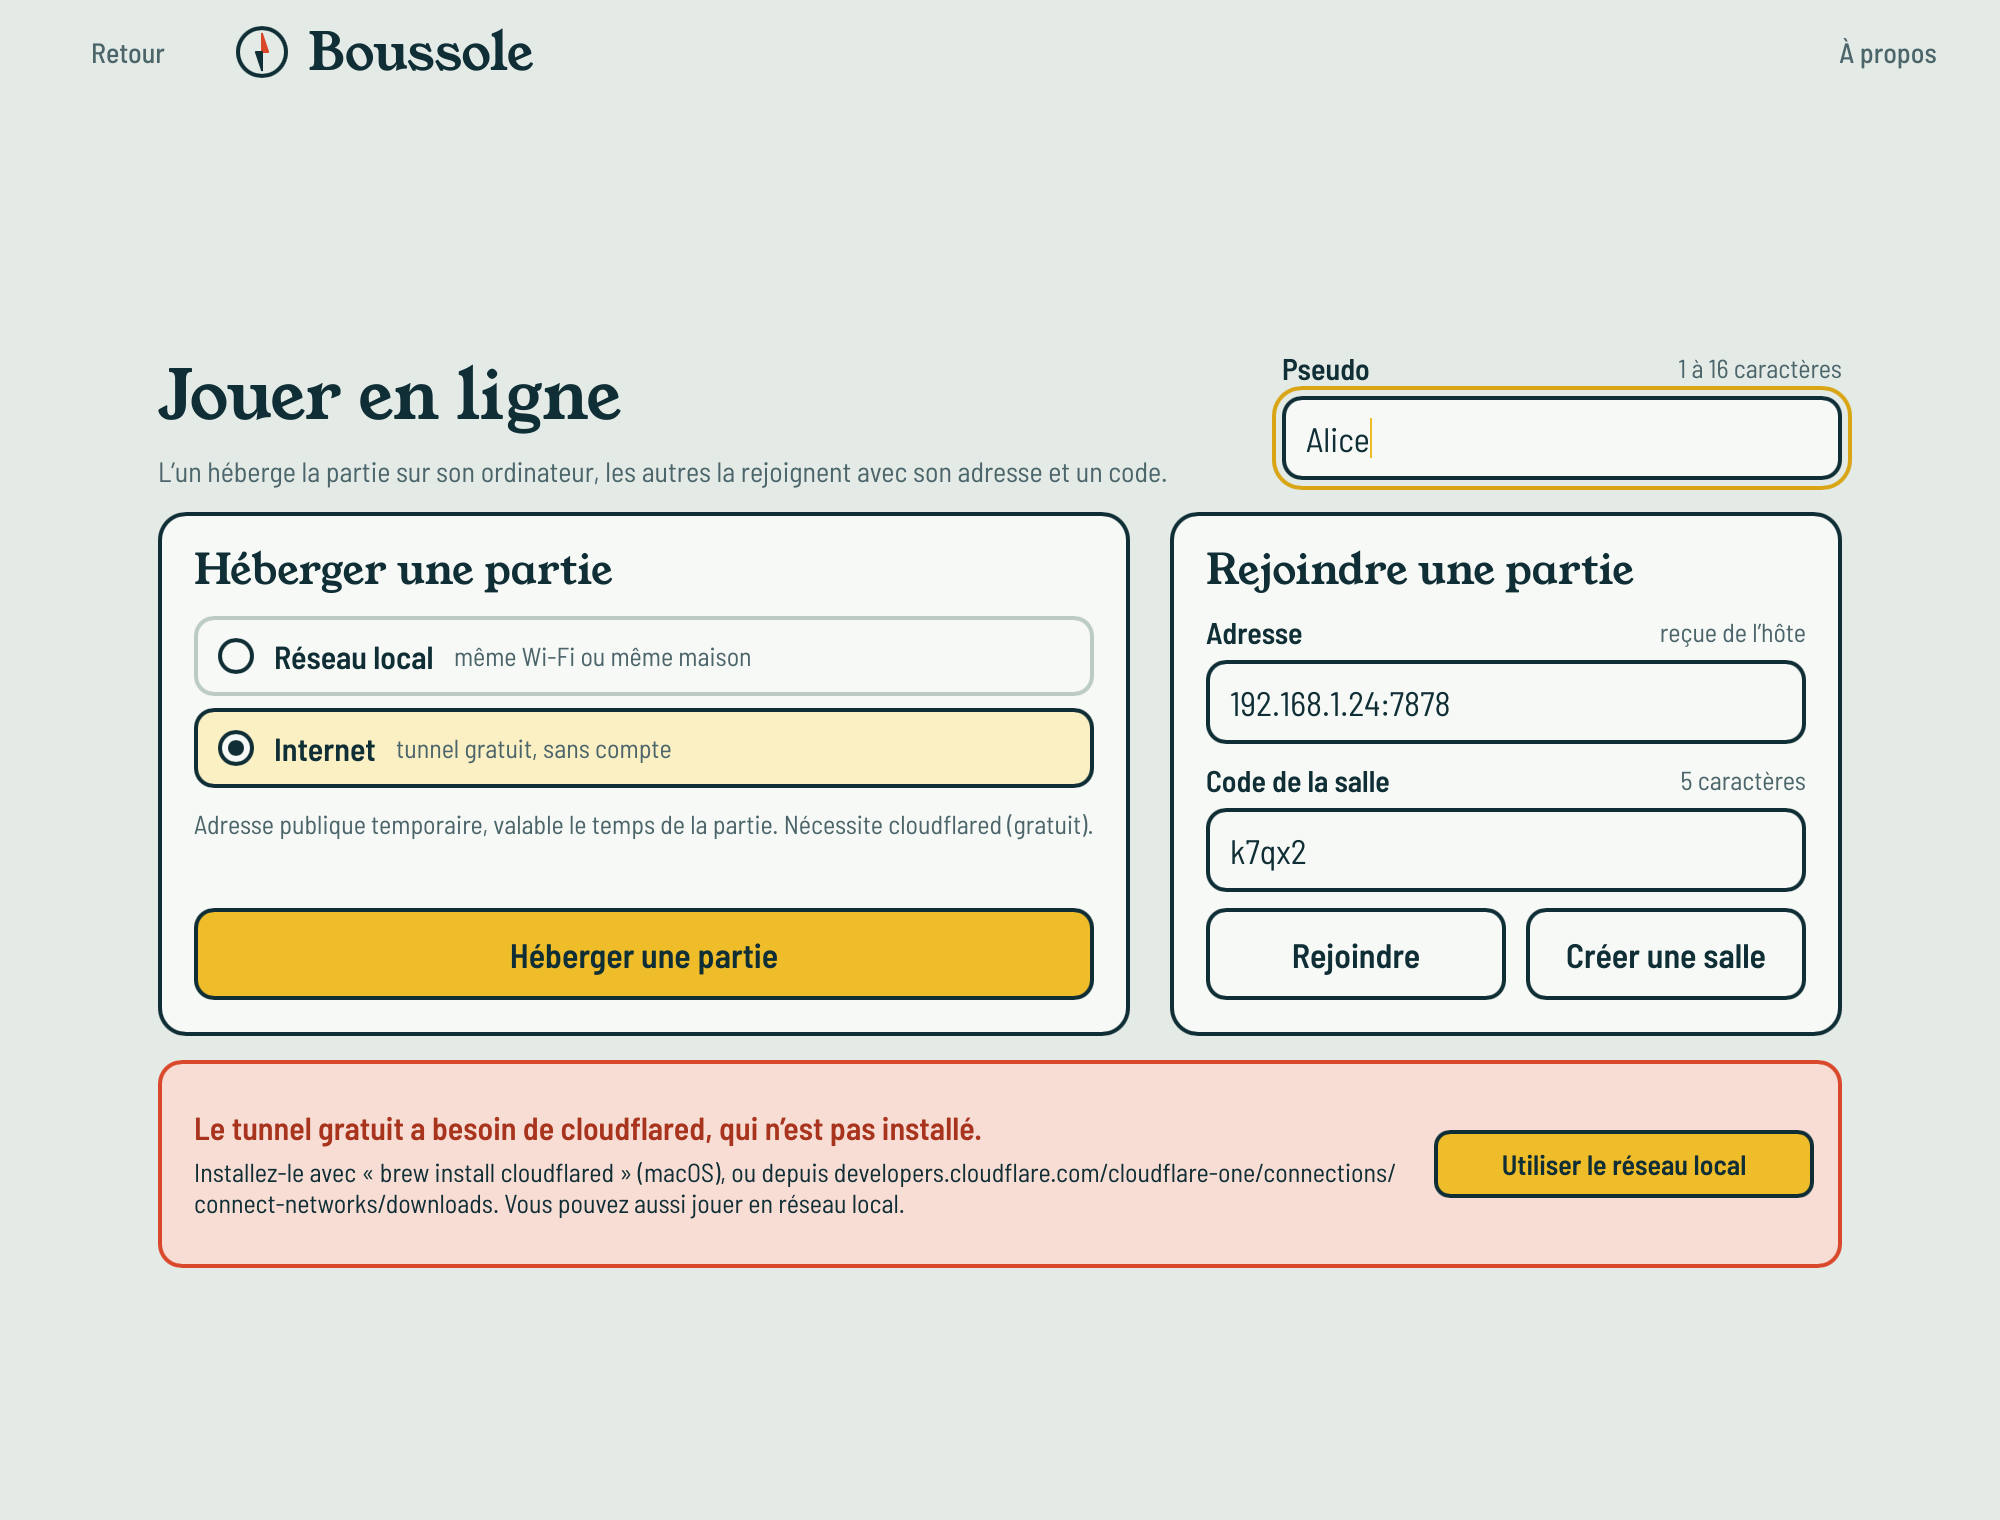
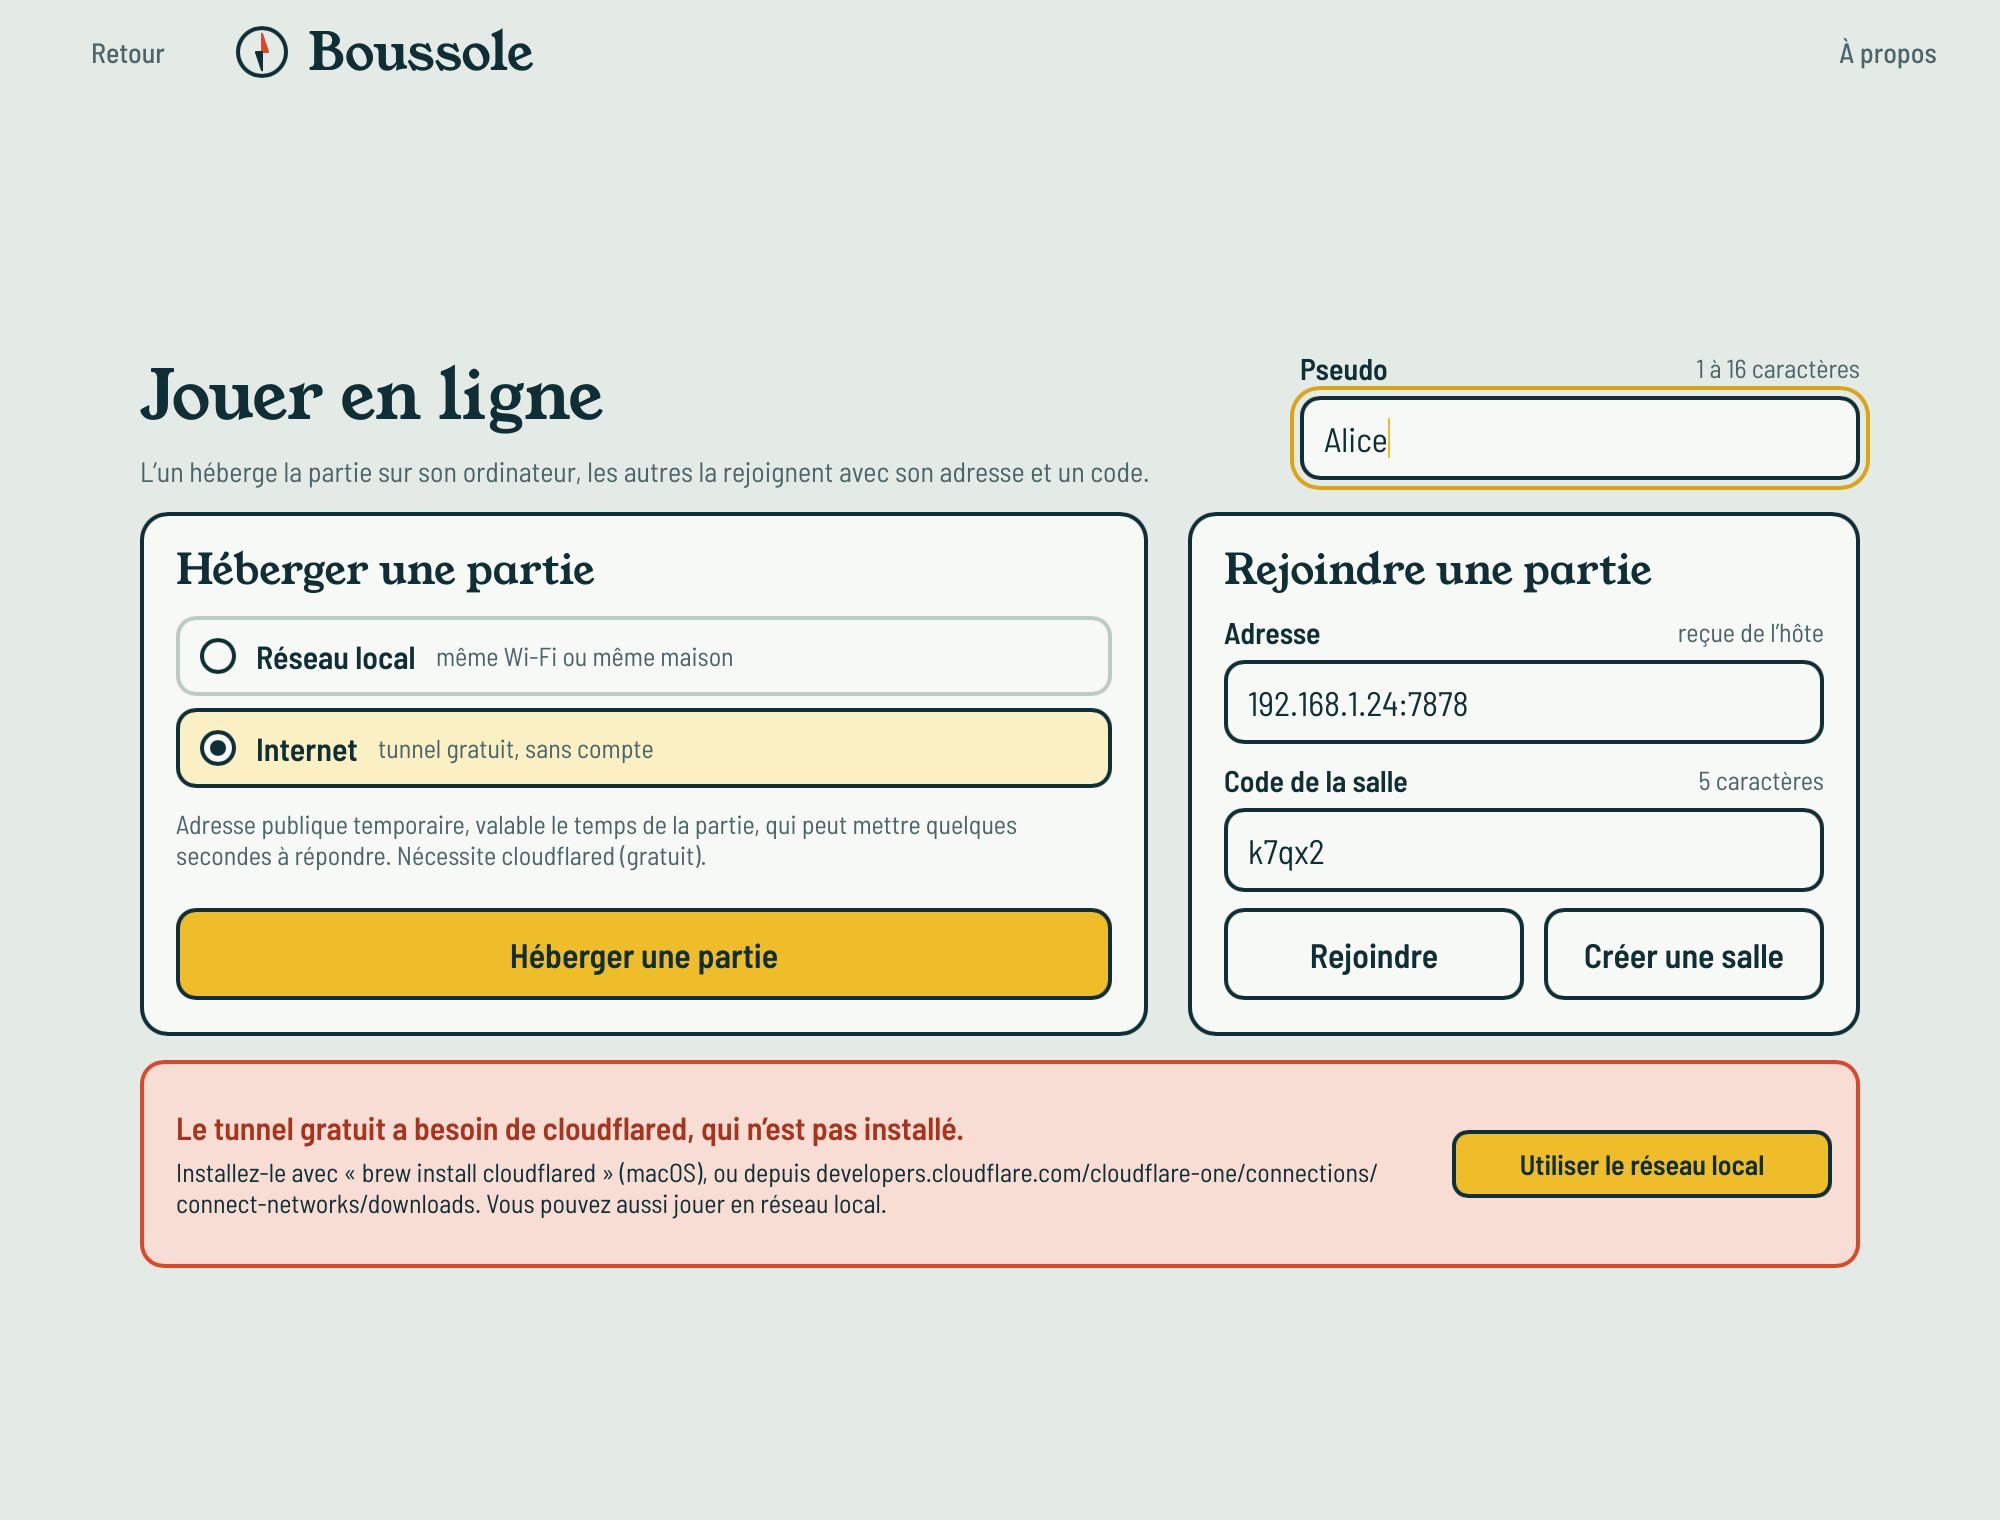
fix(client): a vanished host app is given up on at once; own-server and tunnel wording
04's review: a host app that exits right after shutdown() can lose the 1001 goodbye, so guests
may see a bare EOF. Treating every EOF as "game closed" would cost a Wi-Fi blip the whole room,
so the client keeps its 60 s of retries but gives up as soon as a reconnect attempt is
*refused* (nothing listens on the port any more: a network blip never does that): the player
goes back to the menu with "L’hôte a fermé la partie." instead of waiting a minute. A first
connection to a closed port is still plain "Serveur injoignable".

- When it is the host's own embedded server that stopped, the host is told "Le serveur de la
  partie s’est arrêté." and the host and tunnel handles are stopped.
- The Internet choice says the address may take a few seconds to answer (the tunnel URL is
  printed before it is reachable); the menu still fits 800×600 in its tallest state (test).
- tests first: net (refused port, first connection), flow (guest side, host side, layout).

diff --git a/src/net/client.rs b/src/net/client.rs
@@ -148,6 +148,23 @@ type Sink = Arc<dyn Fn(NetEvent) + Send + Sync>;
 type Socket =
     tokio_tungstenite::WebSocketStream<tokio_tungstenite::MaybeTlsStream<tokio::net::TcpStream>>;
 
+/// Why [`open`] failed. `refused` tells a port with nobody listening (the TCP connection was
+/// refused) from every other failure: while reconnecting, a refusal means the server process is
+/// gone and the game with it, whereas a network blip never refuses.
+struct OpenError {
+    error: NetError,
+    refused: bool,
+}
+
+impl From<NetError> for OpenError {
+    fn from(error: NetError) -> Self {
+        Self {
+            error,
+            refused: false,
+        }
+    }
+}
+
 /// Why a connected session ended.
 enum Ended {
     /// The player closed it (or dropped the handle).
@@ -169,8 +186,8 @@ async fn run(config: NetConfig, mut commands: mpsc::UnboundedReceiver<Command>, 
             sink(NetEvent::Msg(welcome));
             (socket, token)
         }
-        Err(error) => {
-            sink(NetEvent::Failed(error));
+        Err(failure) => {
+            sink(NetEvent::Failed(failure.error));
             return;
         }
     };
@@ -212,9 +229,18 @@ async fn run(config: NetConfig, mut commands: mpsc::UnboundedReceiver<Command>, 
                     sink(NetEvent::Msg(welcome));
                     break socket;
                 }
+                // Nobody listens any more: the server process is gone (a host app that quit
+                // without its 1001 reaching us), and the game cannot come back.
+                Err(OpenError { refused: true, .. }) => {
+                    sink(NetEvent::Failed(NetError::ServerClosed));
+                    return;
+                }
                 // The server was upgraded under us, refuses us, or said it is going away:
                 // retrying cannot help. (A full server, 503, may have room later: keep trying.)
-                Err(error @ (NetError::Rejected(_) | NetError::ServerClosed)) => {
+                Err(OpenError {
+                    error: error @ (NetError::Rejected(_) | NetError::ServerClosed),
+                    ..
+                }) => {
                     sink(NetEvent::Failed(error));
                     return;
                 }
@@ -252,7 +278,7 @@ fn install_tls_provider() {
 async fn open(
     config: &NetConfig,
     resume_token: Option<&str>,
-) -> Result<(Socket, ServerMsg, String), NetError> {
+) -> Result<(Socket, ServerMsg, String), OpenError> {
     install_tls_provider();
     let attempt = async {
         let ws_config = WebSocketConfig::default()
@@ -267,16 +293,24 @@ async fn open(
         .map_err(|error| match error {
             // Over the connection cap: the server answers before the WebSocket upgrade.
             tokio_tungstenite::tungstenite::Error::Http(response) if response.status() == 503 => {
-                NetError::ServerFull
+                OpenError::from(NetError::ServerFull)
             }
-            other => NetError::Unreachable(other.to_string()),
+            tokio_tungstenite::tungstenite::Error::Io(io)
+                if io.kind() == std::io::ErrorKind::ConnectionRefused =>
+            {
+                OpenError {
+                    error: NetError::Unreachable(io.to_string()),
+                    refused: true,
+                }
+            }
+            other => OpenError::from(NetError::Unreachable(other.to_string())),
         })?;
 
         let hello = ClientMsg::hello(config.nickname.clone(), resume_token.map(str::to_owned));
         socket
             .send(Message::text(encode_client(&hello)))
             .await
-            .map_err(|error| NetError::Unreachable(error.to_string()))?;
+            .map_err(|error| OpenError::from(NetError::Unreachable(error.to_string())))?;
 
         loop {
             match socket.next().await {
@@ -288,24 +322,28 @@ async fn open(
                         let token = resume_token.clone();
                         return Ok((socket, welcome, token));
                     }
-                    Ok(ServerMsg::Error { code, .. }) => return Err(NetError::Rejected(code)),
+                    Ok(ServerMsg::Error { code, .. }) => {
+                        return Err(NetError::Rejected(code).into());
+                    }
                     Ok(ServerMsg::Pong) => {}
-                    Ok(_) | Err(_) => return Err(NetError::Protocol),
+                    Ok(_) | Err(_) => return Err(NetError::Protocol.into()),
                 },
                 Some(Ok(Message::Close(frame))) if is_going_away(frame.as_ref()) => {
-                    return Err(NetError::ServerClosed);
+                    return Err(NetError::ServerClosed.into());
                 }
                 Some(Ok(Message::Close(_))) | None => {
-                    return Err(NetError::Unreachable("connexion fermée".into()));
+                    return Err(NetError::Unreachable("connexion fermée".into()).into());
                 }
                 Some(Ok(_)) => {} // ping / pong / binary: not a handshake answer
-                Some(Err(error)) => return Err(NetError::Unreachable(error.to_string())),
+                Some(Err(error)) => {
+                    return Err(NetError::Unreachable(error.to_string()).into());
+                }
             }
         }
     };
     timeout(config.connect_timeout, attempt)
         .await
-        .map_err(|_| NetError::Unreachable("délai dépassé".into()))?
+        .map_err(|_| OpenError::from(NetError::Unreachable("délai dépassé".into())))?
 }
 
 /// Drive one connected socket until the player closes it or it drops.

diff --git a/tests/net.rs b/tests/net.rs
@@ -357,7 +357,10 @@ fn it_gives_up_when_the_reconnect_window_is_over() {
 fn a_server_restart_on_the_same_port_gives_an_unresumed_welcome() {
     let first = MockServer::start();
     let port = first.port;
-    let client = connect(fast(&first.url));
+    let mut config = fast(&first.url);
+    // the restart must be up before the first retry: a port that refuses ends the game
+    config.backoff_initial = Duration::from_millis(400);
+    let client = connect(config);
     welcome_of(client.next());
     drop(first);
     // restart (fresh token table) on the same port; give the OS a moment to release it
@@ -407,6 +410,50 @@ fn a_server_shutdown_close_1001_means_the_host_closed_the_game_and_is_not_retrie
         NetError::ServerClosed.to_string(),
         "L’hôte a fermé la partie."
     );
+}
+
+#[test]
+fn a_host_app_that_exited_without_a_goodbye_is_given_up_on_as_soon_as_its_port_refuses() {
+    // The host process can exit right after `shutdown()` before the 1001 reaches the guests: they
+    // see a bare EOF. A network blip never makes a port *refuse* connections, a gone host does,
+    // and then no amount of retrying brings the game back.
+    let server = MockServer::start();
+    let mut config = fast(&server.url);
+    config.reconnect_window = Duration::from_secs(30); // far longer than this test waits
+    let client = connect(config);
+    welcome_of(client.next());
+    drop(server); // the listener goes away; the connection ends in a bare EOF
+    assert!(matches!(
+        client.next(),
+        NetEvent::Reconnecting { attempt: 1 }
+    ));
+    let started = std::time::Instant::now();
+    assert_eq!(
+        client.next_skipping_reconnecting(),
+        NetEvent::Failed(NetError::ServerClosed)
+    );
+    assert!(
+        started.elapsed() < Duration::from_secs(3),
+        "gave up at once, not after the window"
+    );
+}
+
+#[test]
+fn a_first_connection_to_a_closed_port_is_still_just_unreachable() {
+    let port = {
+        let listener = std::net::TcpListener::bind("127.0.0.1:0").unwrap();
+        listener.local_addr().unwrap().port()
+    };
+    let client = connect(fast(&format!("ws://127.0.0.1:{port}/ws")));
+    match client.next() {
+        NetEvent::Failed(error) => {
+            assert!(
+                error.to_string().starts_with("Serveur injoignable"),
+                "{error}"
+            );
+        }
+        other => panic!("{other:?}"),
+    }
 }
 
 #[test]

diff --git a/tests/online_flow.rs b/tests/online_flow.rs
@@ -658,6 +658,37 @@ fn a_tunnel_without_cloudflared_shows_how_to_install_it_and_offers_the_local_net
 }
 
 #[test]
+fn the_menu_fits_the_minimum_window_in_its_tallest_state() {
+    // Internet chosen (the longer explanation) and the cloudflared help showing.
+    let ui = ui(800, 600);
+    ui.app
+        .online()
+        .set_host(Arc::new(FakeHost::failing(HostError::TunnelNotInstalled)));
+    ui.open_menu();
+    ui.fill("Pseudo", "Alice");
+    ui.click(
+        "Internet : tunnel gratuit, sans compte",
+        Some(AccessibleRole::RadioButton),
+    );
+    ui.button("Héberger une partie");
+    ui.wait("the help", |ui| {
+        ui.online().get_help() == MenuHelp::TunnelMissing
+    });
+    for label in [
+        "Héberger une partie",
+        "Rejoindre",
+        "Utiliser le réseau local",
+    ] {
+        let e = ui.element(label, Some(AccessibleRole::Button));
+        let p = e.absolute_position();
+        assert!(
+            p.y + e.size().height <= 600.0 && p.x + e.size().width <= 800.0,
+            "{label:?} is outside the 800×600 window: {p:?}"
+        );
+    }
+}
+
+#[test]
 fn a_port_already_in_use_is_explained() {
     let ui = ui(1000, 760);
     ui.app
@@ -1598,6 +1629,28 @@ fn the_host_closing_the_game_sends_everybody_back_to_the_menu_without_reconnecti
         1,
         "the client did not try to reconnect"
     );
+}
+
+#[test]
+fn a_host_app_that_vanishes_sends_guests_to_the_menu_within_seconds_not_a_minute() {
+    let (ui, server) = joined(course_config(), alice_and_bob());
+    drop(server); // the host's process is gone: bare EOF, then a refused port
+    ui.wait("the menu", |ui| ui.screen() == OnlineScreen::Menu);
+    assert_eq!(ui.online().get_error(), "L’hôte a fermé la partie.");
+    assert_eq!(ui.online().get_banner_kind(), BannerKind::None);
+}
+
+#[test]
+fn if_the_hosts_own_server_goes_away_the_host_is_told_and_everything_is_cleaned_up() {
+    let (ui, server, host) = hosted(HostChoice::Lan);
+    server.close_connection_with_code(1001); // the embedded server stopped under us
+    ui.wait("the menu", |ui| ui.screen() == OnlineScreen::Menu);
+    assert_eq!(
+        ui.online().get_error(),
+        "Le serveur de la partie s’est arrêté."
+    );
+    ui.wait("the host to be stopped", |_| host.stops() == 1);
+    assert!(ui.app.online().hosted().is_none());
 }
 
 #[test]

diff --git a/src/online_ui.rs b/src/online_ui.rs
@@ -673,7 +673,15 @@ impl OnlineUi {
                 if matches!(stage, Stage::Connecting | Stage::Starting)
                     || error == crate::net::NetError::ServerClosed
                 {
-                    self.fail_to_menu(error.to_string(), None);
+                    // When it is the host's own embedded server that stopped, "the host closed
+                    // the game" would read oddly to the host.
+                    let own_server = self.inner.core.borrow().hosted.is_some();
+                    let text = if own_server && error == crate::net::NetError::ServerClosed {
+                        crate::online::text::OWN_SERVER_STOPPED.to_owned()
+                    } else {
+                        error.to_string()
+                    };
+                    self.fail_to_menu(text, None);
                 } else {
                     let mut core = self.inner.core.borrow_mut();
                     core.state = set_link(std::mem::take(&mut core.state), Link::Lost);

diff --git a/src/online/text.rs b/src/online/text.rs
@@ -8,6 +8,7 @@ pub const ROOM_CLOSED: &str = "La salle a été fermée.";
 pub const SERVER_UNREACHABLE: &str =
     "Serveur injoignable : vérifiez l’adresse, l’hôte et votre connexion.";
 pub const HOST_CLOSED: &str = "L’hôte a fermé la partie.";
+pub const OWN_SERVER_STOPPED: &str = "Le serveur de la partie s’est arrêté.";
 pub const SERVER_FULL: &str =
     "Salle pleine : le serveur n’accepte plus de connexions pour le moment.";
 pub const CANNOT_CREATE_ROOM: &str =

diff --git a/README.md b/README.md
@@ -115,9 +115,10 @@ From the start screen choose **Jouer en ligne**, type a **Pseudo** (1 to 16 char
 * **Errors** are in French and say what to do: *Serveur injoignable*, *Version incompatible —
   mettez le jeu à jour*, *Le port est déjà utilisé*, *Tunnel indisponible*, *Salle pleine* (a server
   over its connection cap), a full or unknown room, a nickname already taken… When the host
-  closes the game (the server goes away, WebSocket close code 1001) everybody is sent back to the
-  menu with *L’hôte a fermé la partie*: the client does not try to reconnect to a game that was
-  closed on purpose. If `cloudflared` is missing the app explains how to install it and
+  closes the game (the server goes away: WebSocket close code 1001, or the host's port stops
+  accepting connections right after a bare disconnect) everybody is sent back to the menu with
+  *L’hôte a fermé la partie*: the client does not keep retrying for a game that cannot come back.
+  A plain network drop, on the other hand, keeps retrying for 60 s. If `cloudflared` is missing the app explains how to install it and
   offers the local network instead.
 * **Keyboard only** works from the start screen to the guesses: `Tab` moves between the nickname,
   the host/join forms and the buttons, `←` `→` change a choice, `Enter` confirms, and in a round
